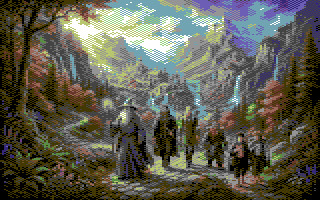
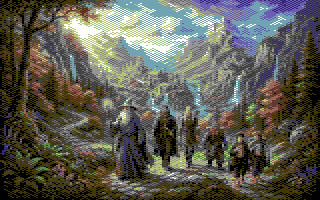
Contrast-adaptive error diffusion
Scale incoming error by inverse local contrast (OKLab L gradient).
High-detail areas preserve sharpness, flat areas get smooth gradients.

--adaptive <0-1>, interactive key a/A, --gallery adaptive.
Applies to all error diffusion methods.

Regenerated example images with dither-aware quantization.

diff --git a/src/dither.cpp b/src/dither.cpp
@@ -301,11 +301,40 @@ struct DiffusionEntry {
     float weight;
 };
 
+// Compute per-pixel local contrast in OKLab L channel.
+// Returns values in [0, 1] where 0 = flat, 1 = high contrast.
+std::vector<float> compute_contrast_map(
+    const std::vector<OKLab>& image_lab,
+    std::size_t w, std::size_t h) {
+
+    constexpr float threshold = 0.15f; // L difference for "high contrast"
+    std::vector<float> contrast(w * h);
+
+    for (std::size_t y = 0; y < h; ++y) {
+        for (std::size_t x = 0; x < w; ++x) {
+            float L = image_lab[y * w + x].L;
+            float grad = 0.0f;
+            float count = 0.0f;
+
+            if (x > 0)     { grad += std::abs(L - image_lab[y*w + x-1].L); ++count; }
+            if (x+1 < w)   { grad += std::abs(L - image_lab[y*w + x+1].L); ++count; }
+            if (y > 0)     { grad += std::abs(L - image_lab[(y-1)*w + x].L); ++count; }
+            if (y+1 < h)   { grad += std::abs(L - image_lab[(y+1)*w + x].L); ++count; }
+
+            grad /= count;
+            contrast[y * w + x] = std::min(grad / threshold, 1.0f);
+        }
+    }
+
+    return contrast;
+}
+
 void apply_error_diffusion(
     const Image& image, quantize::ScreenResult& result,
     const Palette& palette, const vic2::ModeParams& params,
     float strength, float error_clamp_val,
-    bool serpentine, std::span<const DiffusionEntry> kernel) {
+    bool serpentine, float adaptive,
+    std::span<const DiffusionEntry> kernel) {
 
     auto w = params.screen_width;
     auto h = params.screen_height;
@@ -320,6 +349,12 @@ void apply_error_diffusion(
 
     auto palette_lab = precompute_palette_lab(palette);
 
+    // Precompute contrast map for adaptive diffusion
+    std::vector<float> contrast_map;
+    if (adaptive > 0.0f) {
+        contrast_map = compute_contrast_map(image_lab, w, h);
+    }
+
     std::vector<OKLab> error_buf(w * h);
 
     for (std::size_t y = 0; y < h; ++y) {
@@ -331,9 +366,17 @@ void apply_error_diffusion(
 
             auto [cell, pi] = get_pixel_cell(result, x, y, params, cx);
 
-            auto adjusted = oklab_add(
-                image_lab[buf_idx],
-                oklab_clamp(error_buf[buf_idx], error_clamp_val));
+            // Adaptive: scale incoming error by inverse local contrast.
+            // High detail → less error accepted → sharper.
+            // Flat areas → full error → smoother gradients.
+            auto clamped_error = oklab_clamp(error_buf[buf_idx], error_clamp_val);
+            if (adaptive > 0.0f) {
+                float detail = contrast_map[buf_idx];
+                float scale = 1.0f - adaptive * detail;
+                clamped_error = oklab_scale(clamped_error, scale);
+            }
+
+            auto adjusted = oklab_add(image_lab[buf_idx], clamped_error);
 
             auto [idx, chosen_lab] = find_nearest_oklab(
                 adjusted, cell->cell_colors, palette_lab);
@@ -506,37 +549,42 @@ void apply(const Image& image, quantize::ScreenResult& result,
     case Method::floyd_steinberg:
         apply_error_diffusion(image, result, palette, params,
                               settings.strength, settings.error_clamp,
-                              settings.serpentine, floyd_steinberg_kernel);
+                              settings.serpentine, settings.adaptive,
+                              floyd_steinberg_kernel);
         return;
     case Method::atkinson:
         apply_error_diffusion(image, result, palette, params,
                               settings.strength, settings.error_clamp,
-                              settings.serpentine, atkinson_kernel);
+                              settings.serpentine, settings.adaptive,
+                              atkinson_kernel);
         return;
     case Method::sierra_lite:
         apply_error_diffusion(image, result, palette, params,
                               settings.strength, settings.error_clamp,
-                              settings.serpentine, sierra_lite_kernel);
+                              settings.serpentine, settings.adaptive,
+                              sierra_lite_kernel);
         return;
 
     // 2:1 error diffusion
     case Method::fs_wide:
         apply_error_diffusion(image, result, palette, params,
                               settings.strength, settings.error_clamp,
-                              settings.serpentine,
+                              settings.serpentine, settings.adaptive,
                               fs_wide_kernel);
         return;
     case Method::jarvis:
         apply_error_diffusion(image, result, palette, params,
                               settings.strength, settings.error_clamp,
-                              settings.serpentine, jarvis_kernel);
+                              settings.serpentine, settings.adaptive,
+                              jarvis_kernel);
         return;
 
     // Horizontal line error diffusion
     case Method::line_fs:
         apply_error_diffusion(image, result, palette, params,
                               settings.strength, settings.error_clamp,
-                              settings.serpentine, line_fs_kernel);
+                              settings.serpentine, settings.adaptive,
+                              line_fs_kernel);
         return;
     }
 }

diff --git a/src/main.cpp b/src/main.cpp
@@ -72,6 +72,7 @@ void print_usage() {
         "     Lines:   line2, line-checker, line4, line8, line-fs\n"
         "  --dither-strength <float>       Dithering strength 0.0-2.0 (default: 1.0)\n"
         "  --error-clamp <float>           Max error per channel 0.1-2.0 (default: 0.8)\n"
+        "  --adaptive <float>              Contrast-adaptive diffusion 0.0-1.0 (default: 0.0)\n"
         "  --no-serpentine                  Disable serpentine scanning\n"
         "  --brightness <float>            Brightness -1.0 to 1.0 (default: 0.0)\n"
         "  --contrast <float>              Contrast 0.0-2.0 (default: 1.0)\n"
@@ -83,7 +84,7 @@ void print_usage() {
         "  --sprites-y <int>              Sprite sheet rows (default: 1)\n"
         "  --gallery <param>               Preview parameter variations in terminal\n"
         "     dither, brightness, contrast, saturation, gamma,\n"
-        "     error-clamp, dither-strength\n"
+        "     error-clamp, dither-strength, adaptive\n"
         "  --interactive                    Interactive mode (live parameter tuning)");
 }
 
@@ -155,6 +156,8 @@ Result<Config> parse_args(int argc, char* argv[]) {
                 config.dither_settings.strength = std::stof(std::string(val));
             } else if (arg == "--error-clamp") {
                 config.dither_settings.error_clamp = std::stof(std::string(val));
+            } else if (arg == "--adaptive") {
+                config.dither_settings.adaptive = std::stof(std::string(val));
             } else if (arg == "--brightness") {
                 config.preprocess.brightness = std::stof(std::string(val));
             } else if (arg == "--contrast") {
@@ -433,6 +436,17 @@ constexpr std::array dither_strength_gallery = {
     FloatGalleryEntry{2.00f, "dither-strength = 2.00"},
 };
 
+// Adaptive: 0.0 .. 1.0
+constexpr std::array adaptive_gallery = {
+    FloatGalleryEntry{0.00f, "adaptive = 0.00 (off)"},
+    FloatGalleryEntry{0.15f, "adaptive = 0.15"},
+    FloatGalleryEntry{0.30f, "adaptive = 0.30"},
+    FloatGalleryEntry{0.50f, "adaptive = 0.50"},
+    FloatGalleryEntry{0.70f, "adaptive = 0.70"},
+    FloatGalleryEntry{0.85f, "adaptive = 0.85"},
+    FloatGalleryEntry{1.00f, "adaptive = 1.00 (full)"},
+};
+
 // Dither gallery for bitmap modes: only re-runs dithering (fast)
 void run_dither_gallery_bitmap(const Image& image,
                                const quantize::ScreenResult& screen,
@@ -582,6 +596,15 @@ bool run_gallery(const std::string& gallery_name,
         return true;
     }
 
+    if (gallery_name == "adaptive") {
+        run_float_gallery("Adaptive", adaptive_gallery,
+            scaled_image, config, pal, params,
+            [](preprocess::Settings&, dither::Settings& ds, float v) {
+                ds.adaptive = v;
+            });
+        return true;
+    }
+
     return false;
 }
 
@@ -706,9 +729,11 @@ void run_interactive(const Image& scaled_image, Config& config,
         std::println(" \033[33mt/T\033[0m saturation \033[1m{:<12.2f}\033[0m"
                      "  \033[33me/E\033[0m errclamp \033[1m{:<12.2f}\033[0m\033[K",
                      pp.saturation, ds.error_clamp);
-        std::println(" \033[33m x \033[0m serpentine \033[1m{:<12}\033[0m"
-                     "  \033[33m r \033[0m reset  \033[33m w \033[0m save  \033[33m q \033[0m quit\033[K",
-                     ds.serpentine ? "on" : "off");
+        std::println(" \033[33ma/A\033[0m adaptive   \033[1m{:<12.2f}\033[0m"
+                     "  \033[33m x \033[0m serpentine \033[1m{}\033[0m\033[K",
+                     ds.adaptive, ds.serpentine ? "on" : "off");
+        std::println(" \033[33m r \033[0m reset      \033[33m w \033[0m save"
+                     "      \033[33m q \033[0m quit\033[K");
         std::println("\033[K");
 
         iterm2_display_image(output, 3);
@@ -769,6 +794,10 @@ void run_interactive(const Image& scaled_image, Config& config,
         // Error clamp
         case 'e': ds.error_clamp = std::min(ds.error_clamp + step, 3.0f); break;
         case 'E': ds.error_clamp = std::max(ds.error_clamp - step, 0.05f); break;
+
+        // Adaptive
+        case 'a': ds.adaptive = std::min(ds.adaptive + step, 1.0f); break;
+        case 'A': ds.adaptive = std::max(ds.adaptive - step, 0.0f); break;
 
         // Serpentine toggle
         case 'x': ds.serpentine = !ds.serpentine; break;

diff --git a/src/dither.hpp b/src/dither.hpp
@@ -42,6 +42,7 @@ struct Settings {
     float strength = 1.0f;    // 0.0 = no dithering, 1.0 = full
     float error_clamp = 0.8f; // max error magnitude per channel (linear)
     bool serpentine = true;    // alternate scan direction per row
+    float adaptive = 0.0f;    // 0.0 = off, 1.0 = full contrast-adaptive diffusion
 };
 
 void apply(const Image& image, quantize::ScreenResult& result,
